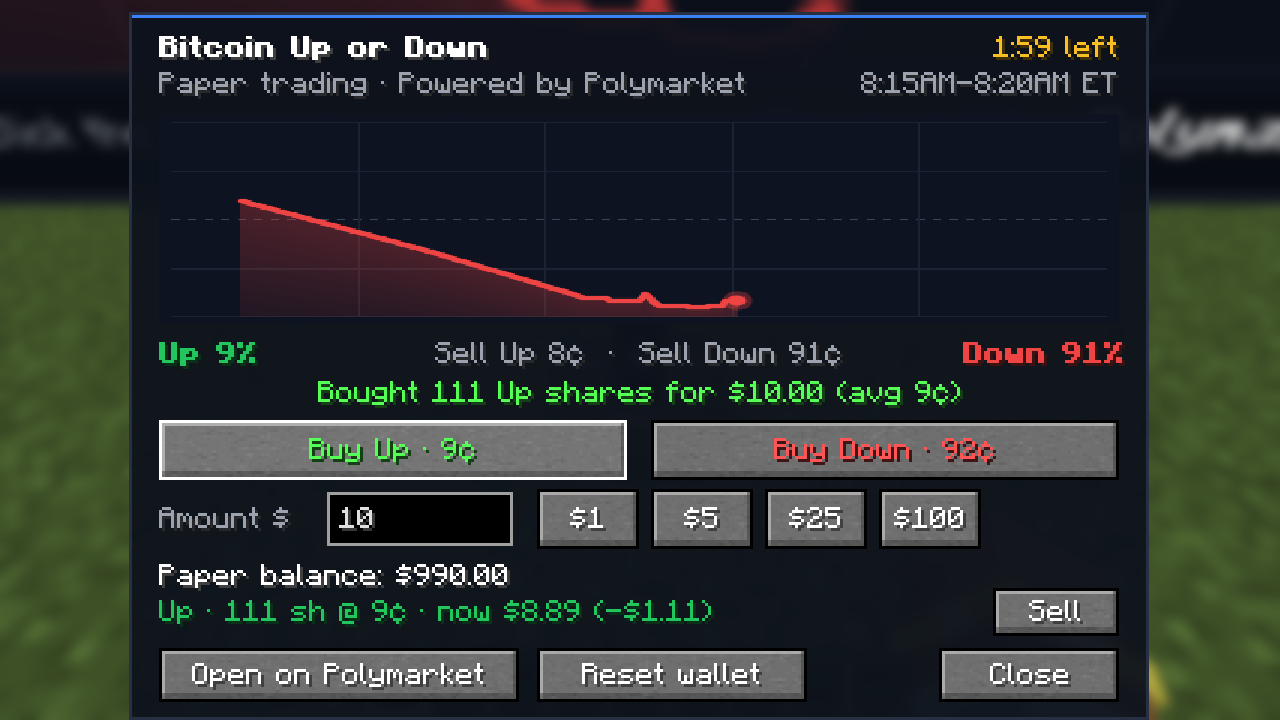
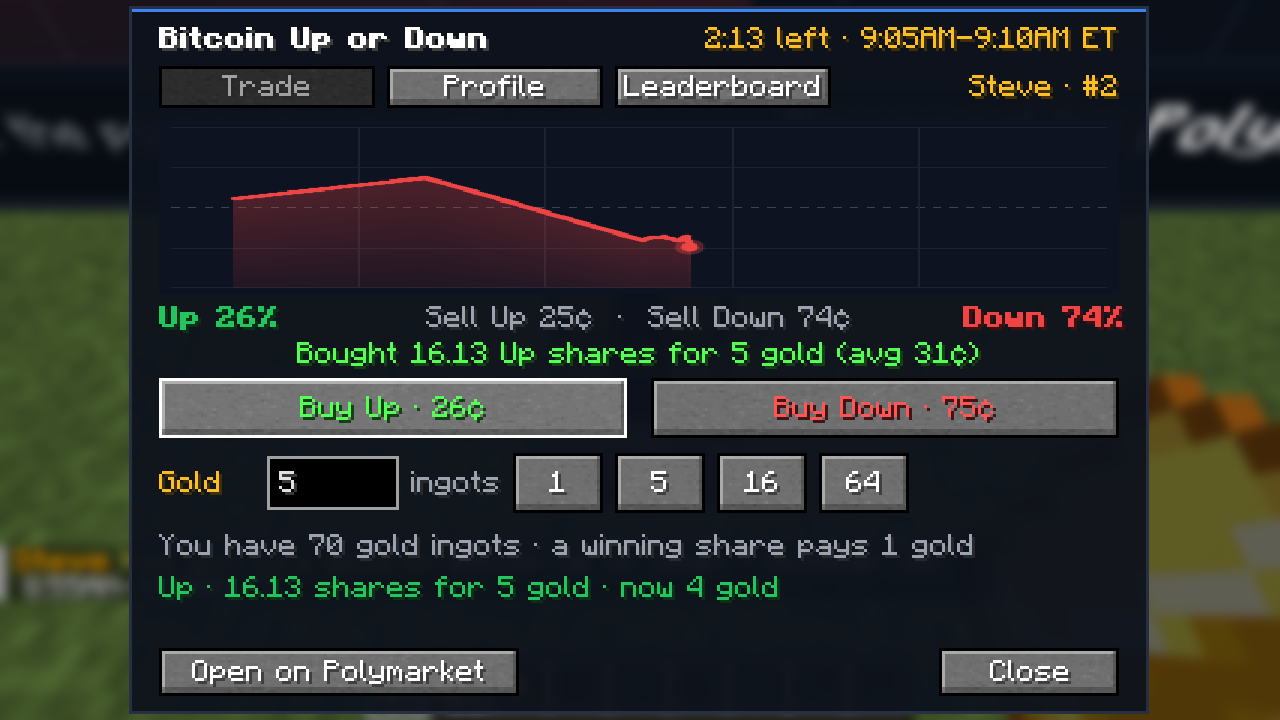
Polymarket mod: README screenshots of gold trading and the profile tab
Claude-Session: https://claude.ai/code/session_01DtT8h4zo1iGH8dAZUAaLin

diff --git a/mods/polymarket/README.md b/mods/polymarket/README.md
@@ -3,7 +3,7 @@
 A big screen in your world that shows Polymarket's live **Bitcoin Up or Down – 5 minute** market. Players trade it
 with gold ingots and compete on a leaderboard beside the screen.
 
-![The billboard and its leaderboard in a world](docs/billboard.png)
+![The billboard and its leaderboard in a world, just after a win was announced in chat](docs/billboard.png)
 
 - **Live market:** the screen follows the current five-minute window, from Polymarket's
   [`btc-up-or-down-5m`](https://polymarket.com/crypto/5M) series. A new market starts every five minutes.
@@ -55,6 +55,9 @@ by the server, so all the players of a world share one leaderboard.
   - your rank, profit, wins and losses;
   - your open positions with what they're worth now, and **Sell**;
   - your last trades.
+
+  ![Profile tab: profit, an open position with Sell, and recent trades](docs/profile.png)
+
 - **Leaderboard** (Leaderboard tab): every trader, ranked by profit (realised, in gold), with their trades and wins.
 
 ### Getting paid
